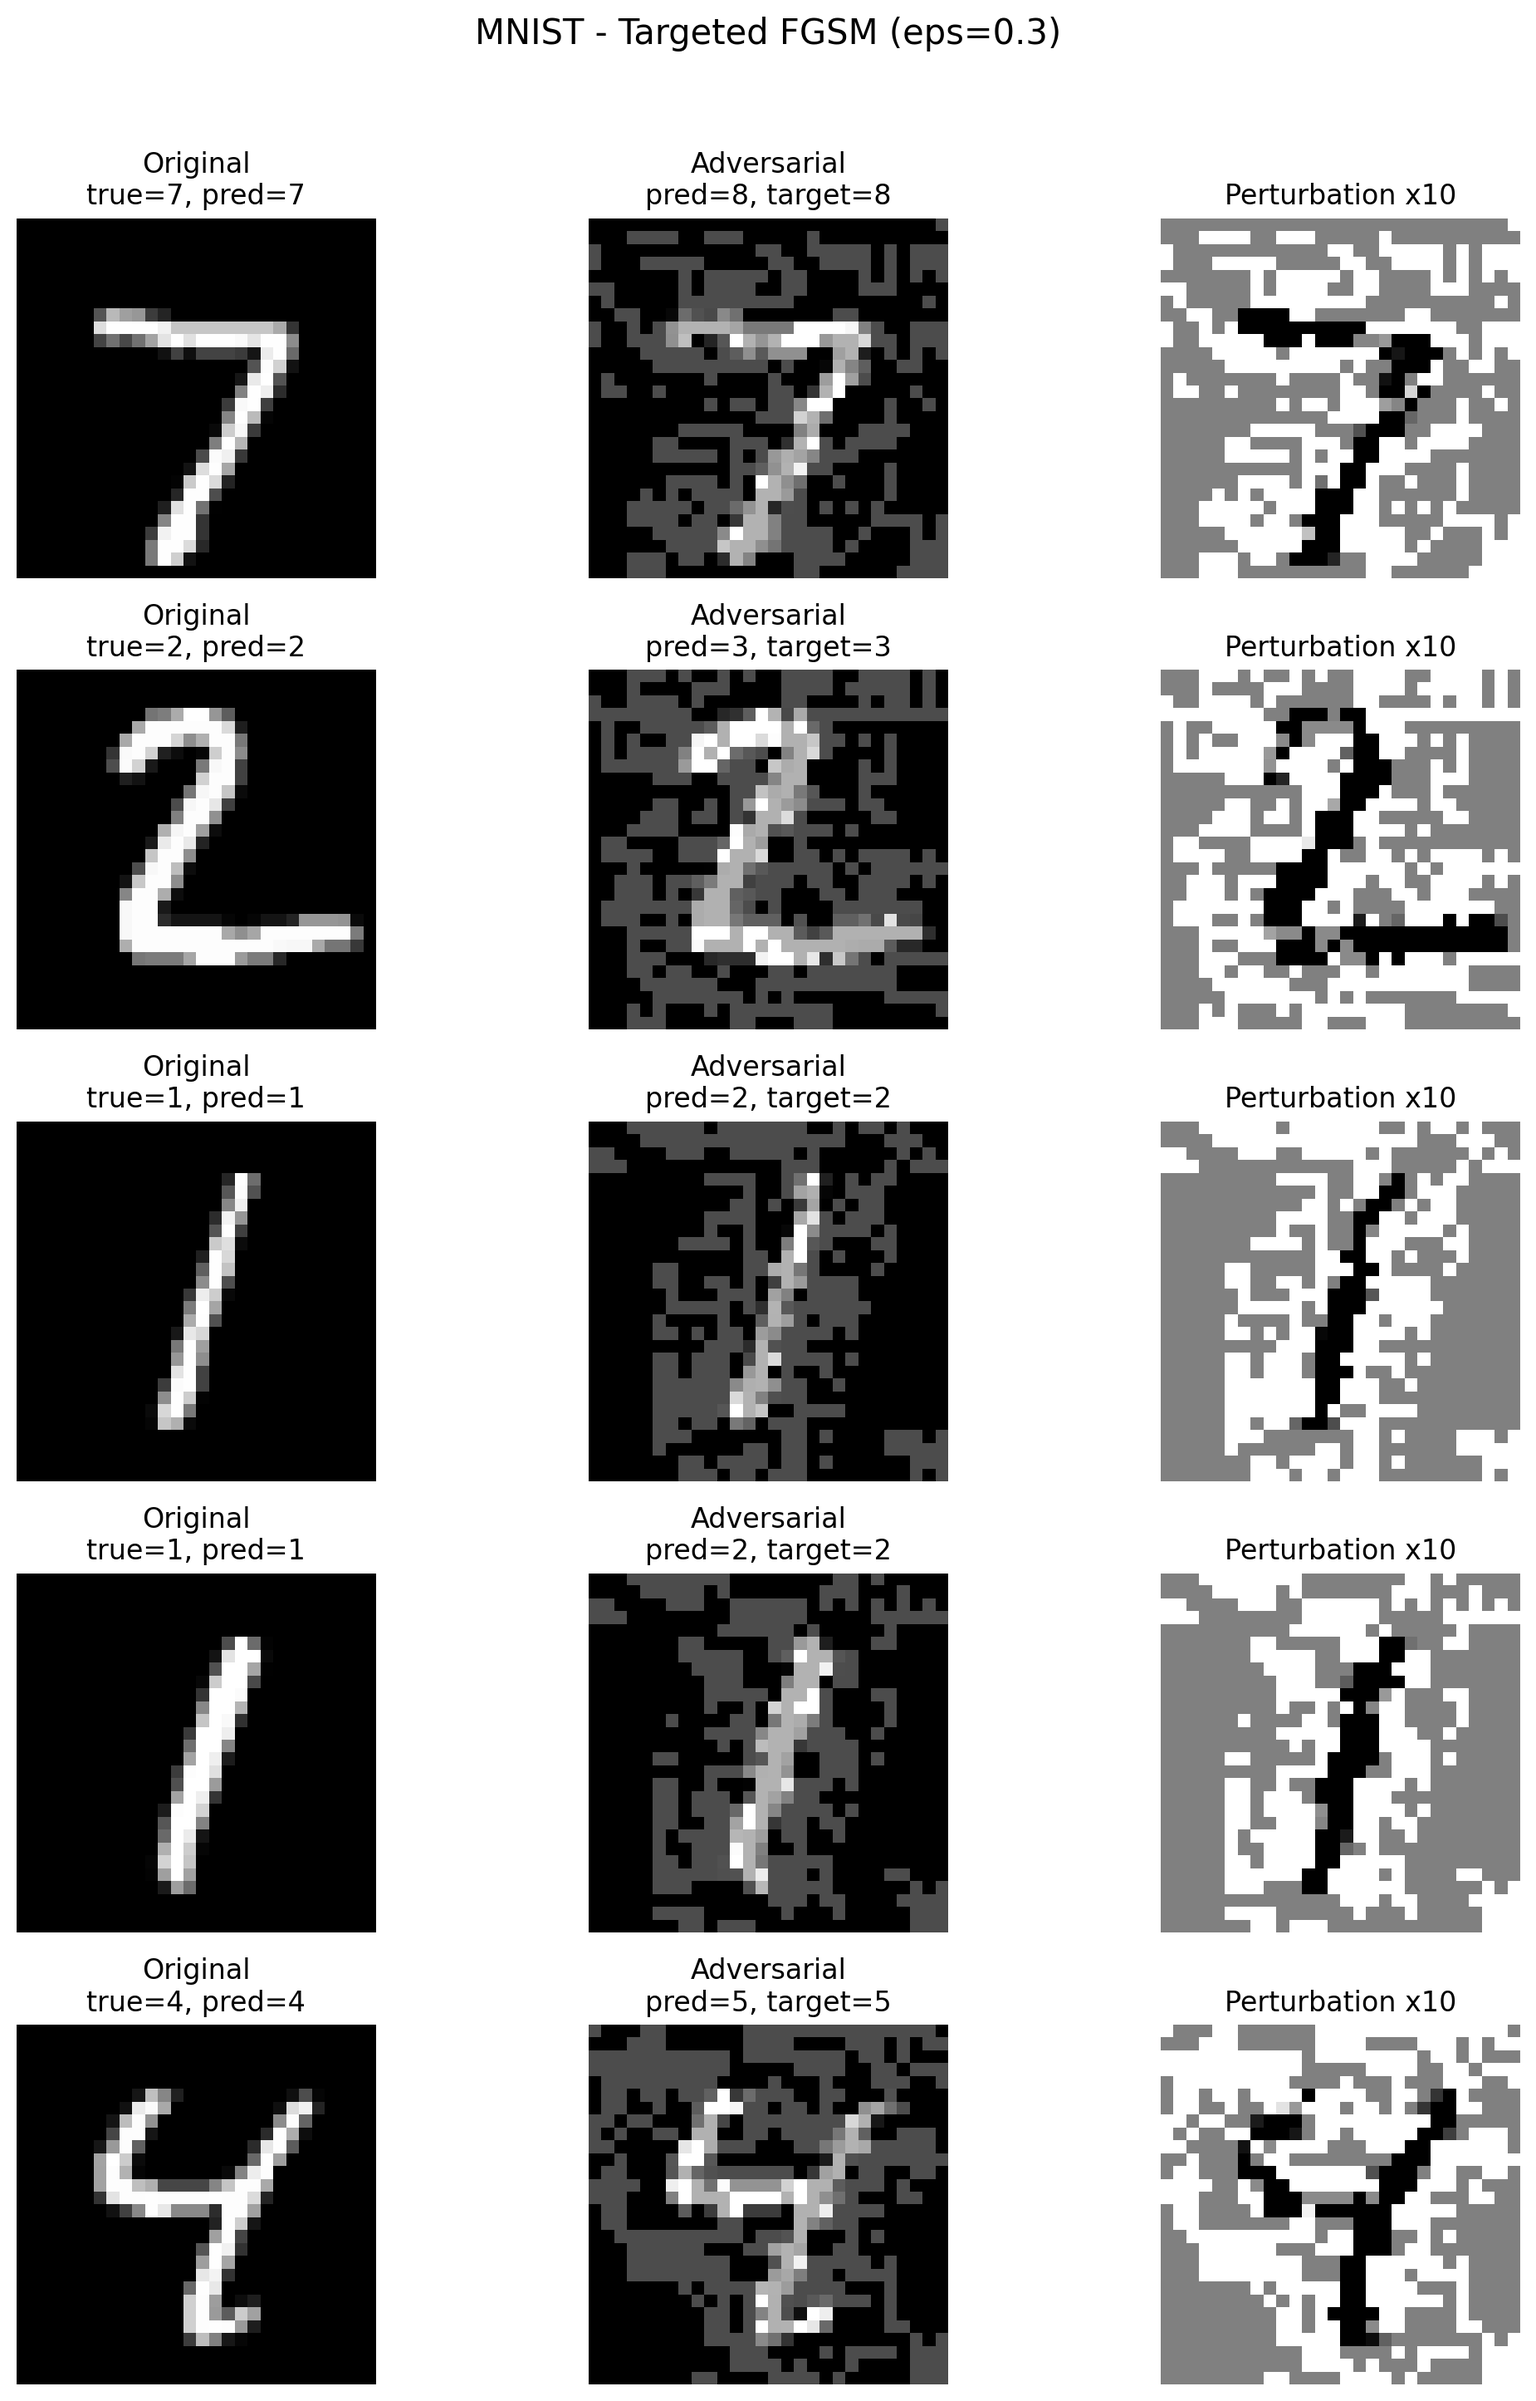
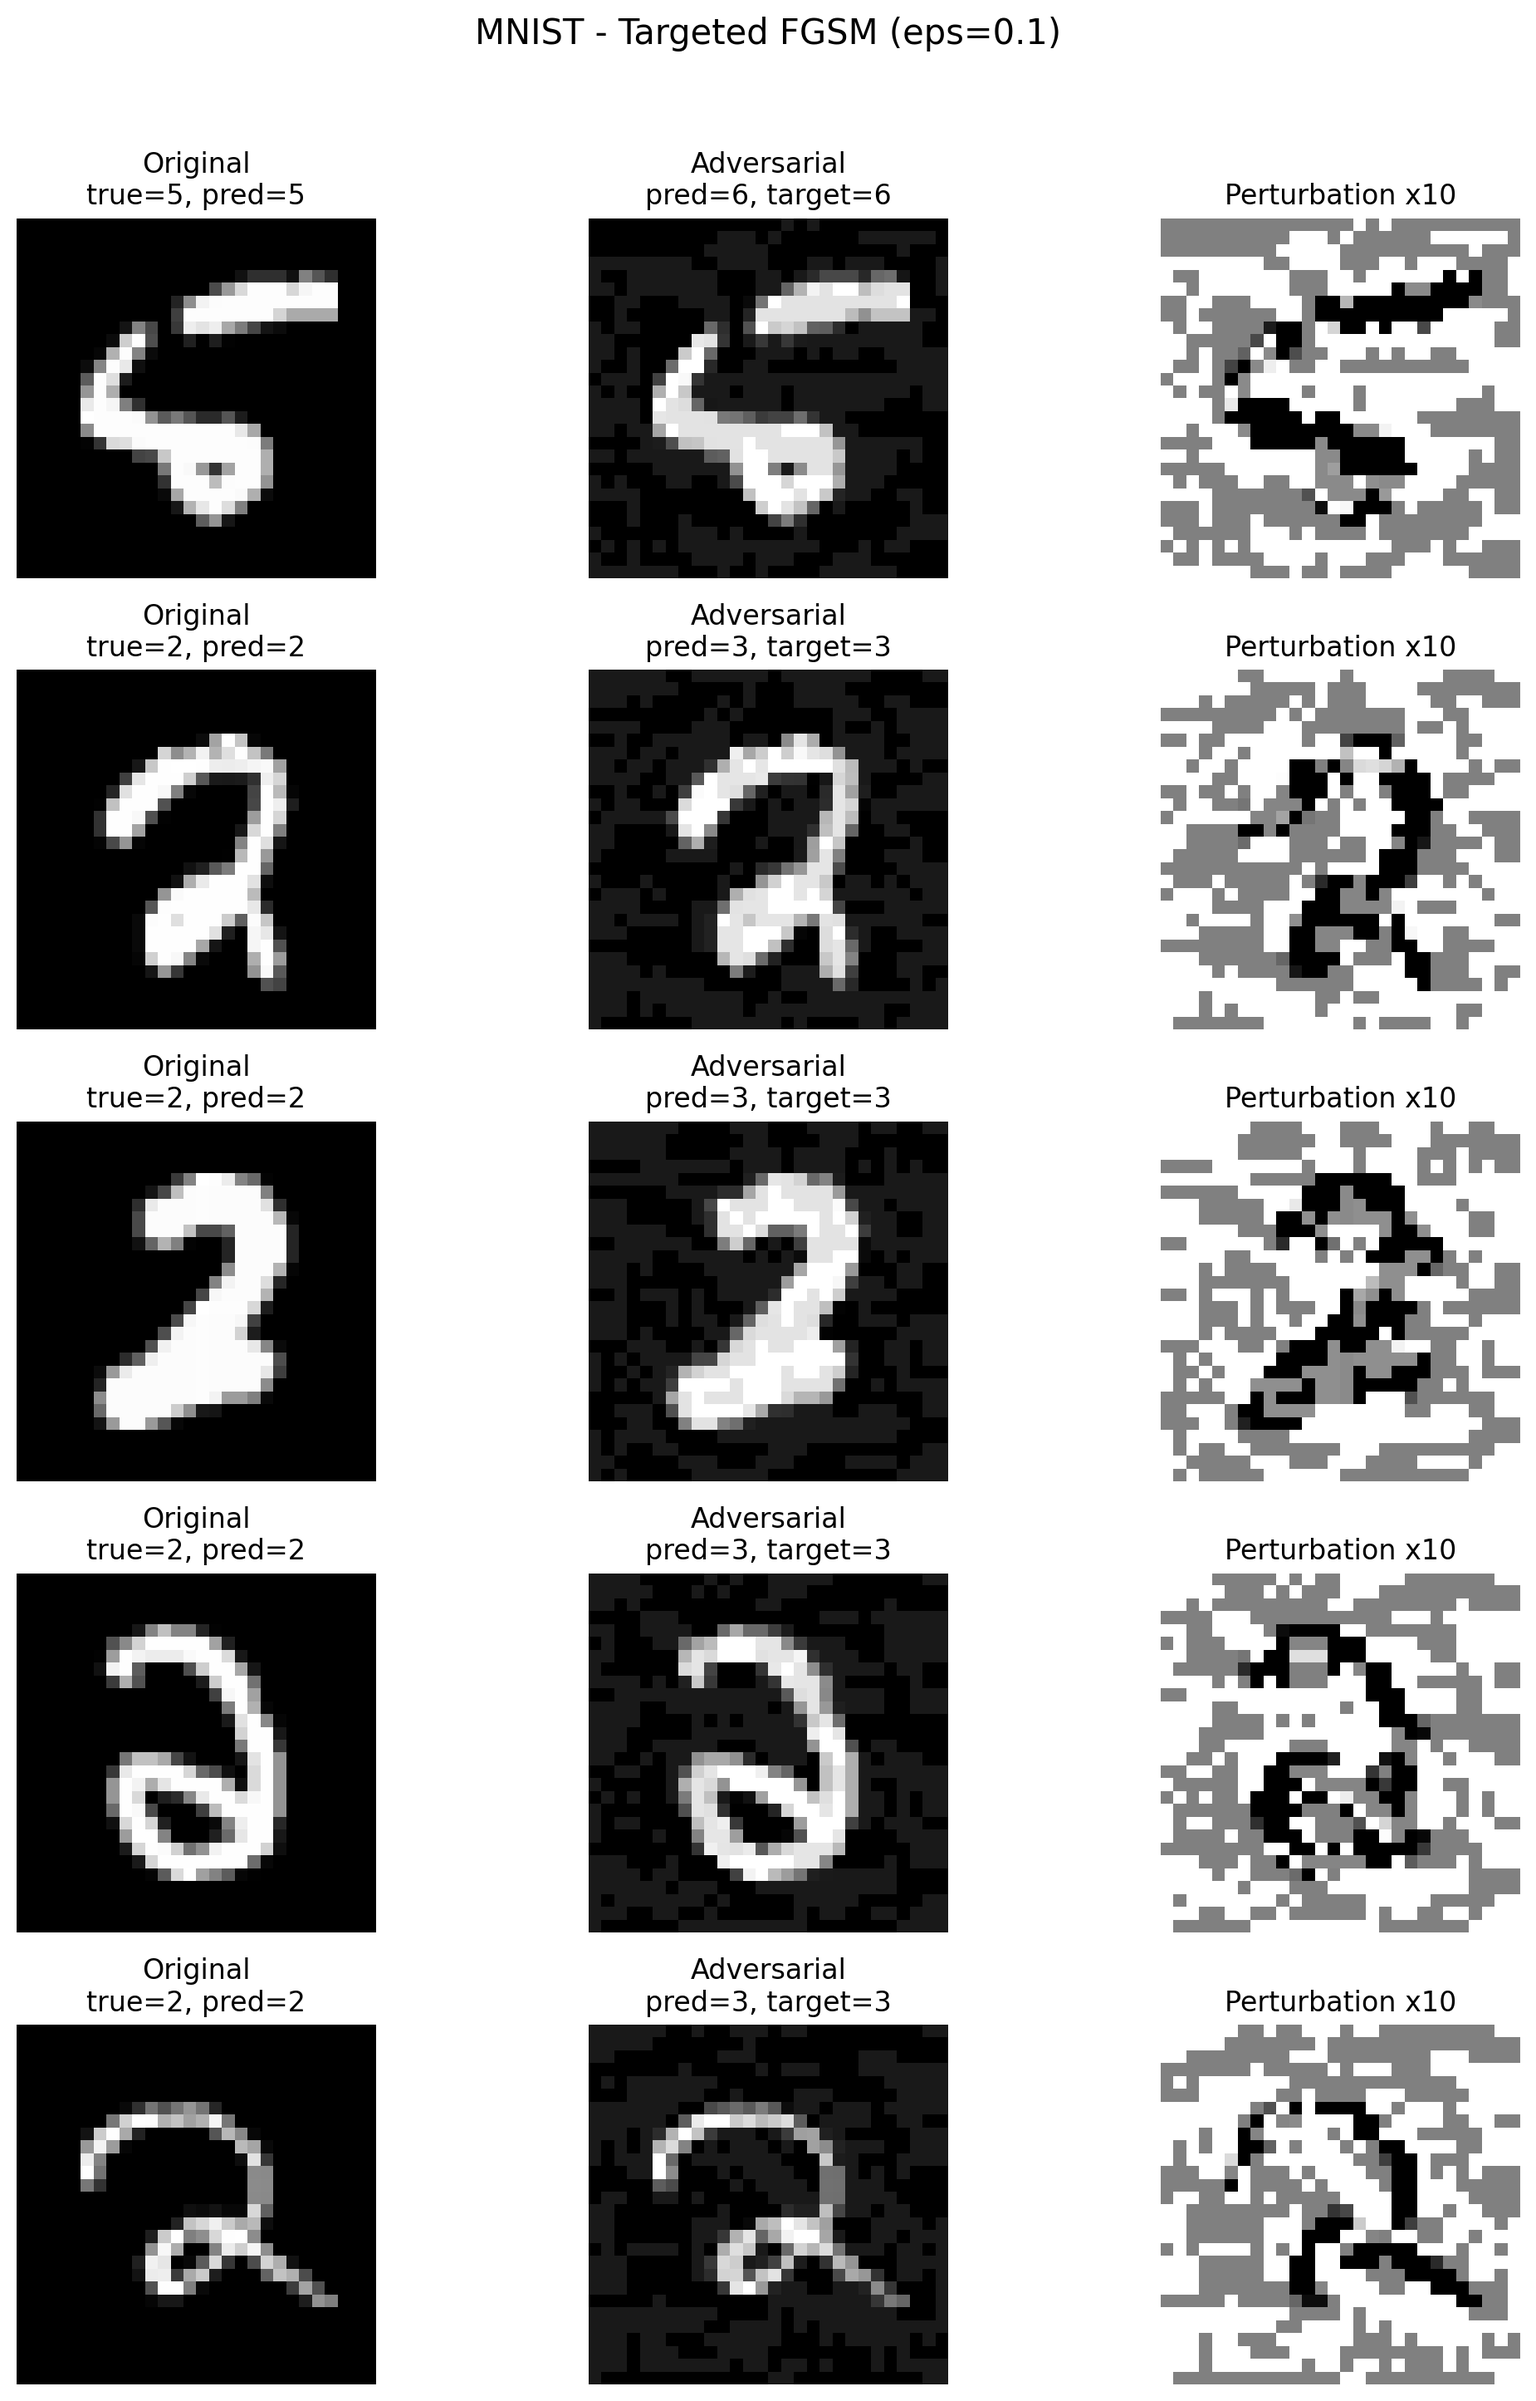
create eps table and requirment

diff --git a/eps_table.py b/eps_table.py
@@ -1,0 +1,182 @@
+import csv
+import os
+
+import cifar10
+import fgsm
+import mnist
+import pgd
+
+
+EPS_VALUES = [0.01, 0.05, 0.1, 0.2, 0.3, 0.5]
+NUM_SAMPLES = 1000
+RESULTS_DIR = os.path.dirname(os.path.abspath(__file__))
+
+ATTACK_CONFIGS = [
+    {"name": "Targeted FGSM", "method": "FGSM", "targeted": True},
+    {"name": "Untargeted FGSM", "method": "FGSM", "targeted": False},
+    {"name": "Targeted PGD", "method": "PGD", "targeted": True},
+    {"name": "Untargeted PGD", "method": "PGD", "targeted": False},
+]
+
+DATASET_CONFIGS = {
+    "MNIST": {
+        "runner": mnist.run,
+        "pgd_k": 40,
+        "pgd_eps_step": 0.01,
+    },
+    "CIFAR-10": {
+        "runner": cifar10.run,
+        "pgd_k": 10,
+        "pgd_eps_step": 0.01,
+    },
+}
+
+
+def evaluate_attack_success(model, test_loader, device, attack_config, dataset_config, eps):
+    if attack_config["method"] == "FGSM":
+        return fgsm.evaluate_fgsm(
+            model,
+            test_loader,
+            device,
+            eps=eps,
+            targeted=attack_config["targeted"],
+            num_samples=NUM_SAMPLES,
+        )
+
+    return pgd.evaluate_pgd(
+        model,
+        test_loader,
+        device,
+        k=dataset_config["pgd_k"],
+        eps=eps,
+        eps_step=dataset_config["pgd_eps_step"],
+        targeted=attack_config["targeted"],
+        num_samples=NUM_SAMPLES,
+    )
+
+
+def build_dataset_table(model, test_loader, device, dataset_name, dataset_config):
+    table = {}
+
+    for attack_config in ATTACK_CONFIGS:
+        attack_name = attack_config["name"]
+        table[attack_name] = {}
+
+        for eps in EPS_VALUES:
+            print(f"{dataset_name} | {attack_name} | eps={eps}")
+            success_rate = evaluate_attack_success(
+                model=model,
+                test_loader=test_loader,
+                device=device,
+                attack_config=attack_config,
+                dataset_config=dataset_config,
+                eps=eps,
+            )
+            table[attack_name][eps] = success_rate
+
+    return table
+
+
+def save_dataset_csv(dataset_name, table):
+    os.makedirs(RESULTS_DIR, exist_ok=True)
+    file_name = f"{dataset_name.lower().replace('-', '').replace(' ', '_')}_eps_attack_success.csv"
+    output_path = os.path.join(RESULTS_DIR, file_name)
+
+    with open(output_path, "w", newline="", encoding="utf-8") as csv_file:
+        writer = csv.writer(csv_file)
+        writer.writerow(["Attack"] + [str(eps) for eps in EPS_VALUES])
+
+        for attack_name in table:
+            writer.writerow(
+                [attack_name] + [f"{table[attack_name][eps]:.2f}" for eps in EPS_VALUES]
+            )
+
+    return output_path
+
+
+def build_markdown_table(dataset_name, table, dataset_config):
+    lines = []
+    lines.append(f"## {dataset_name}")
+    lines.append("")
+    lines.append(
+        f"PGD setting: k={dataset_config['pgd_k']}, eps_step={dataset_config['pgd_eps_step']}, "
+        f"evaluated on {NUM_SAMPLES} samples"
+    )
+    lines.append("")
+
+    header = "| Attack | " + " | ".join(str(eps) for eps in EPS_VALUES) + " |"
+    separator = "|---|" + "|".join(["---:"] * len(EPS_VALUES)) + "|"
+    lines.append(header)
+    lines.append(separator)
+
+    for attack_name in table:
+        values = " | ".join(f"{table[attack_name][eps]:.2f}" for eps in EPS_VALUES)
+        lines.append(f"| {attack_name} | {values} |")
+
+    lines.append("")
+    return lines
+
+
+def save_markdown_summary(all_tables):
+    os.makedirs(RESULTS_DIR, exist_ok=True)
+    output_path = os.path.join(RESULTS_DIR, "eps_attack_success_summary.md")
+
+    lines = ["# Attack Success Rate by Epsilon", ""]
+
+    for dataset_name, dataset_info in all_tables.items():
+        lines.extend(
+            build_markdown_table(
+                dataset_name=dataset_name,
+                table=dataset_info["table"],
+                dataset_config=dataset_info["config"],
+            )
+        )
+
+    with open(output_path, "w", encoding="utf-8") as markdown_file:
+        markdown_file.write("\n".join(lines))
+
+    return output_path
+
+
+def print_console_table(dataset_name, table):
+    print(f"\n{dataset_name} Attack Success Rate Table (%)")
+    header = ["Attack"] + [str(eps) for eps in EPS_VALUES]
+    print(" | ".join(header))
+    print("-" * 90)
+
+    for attack_name in table:
+        row = [attack_name] + [f"{table[attack_name][eps]:.2f}" for eps in EPS_VALUES]
+        print(" | ".join(row))
+
+
+def main():
+    os.makedirs(RESULTS_DIR, exist_ok=True)
+    all_tables = {}
+
+    for dataset_name, dataset_config in DATASET_CONFIGS.items():
+        print(f"\nLoading {dataset_name} model and test loader")
+        model, test_loader, device = dataset_config["runner"]()
+
+        table = build_dataset_table(
+            model=model,
+            test_loader=test_loader,
+            device=device,
+            dataset_name=dataset_name,
+            dataset_config=dataset_config,
+        )
+
+        csv_path = save_dataset_csv(dataset_name, table)
+        print_console_table(dataset_name, table)
+        print(f"Saved CSV to {csv_path}")
+
+        all_tables[dataset_name] = {
+            "table": table,
+            "config": dataset_config,
+        }
+
+    markdown_path = save_markdown_summary(all_tables)
+    print(f"Saved Markdown summary to {markdown_path}")
+
+
+if __name__ == "__main__":
+    main()

diff --git a/test.py b/test.py
@@ -26,41 +26,41 @@ def main():
     cifar10_model, cifar10_test_loader, device = cifar10.run()
 
     mnist_attack_configs = [
-        {"attack_method": "FGSM", "targeted": True, "eps": 0.3},
-        {"attack_method": "FGSM", "targeted": False, "eps": 0.3},
-        {"attack_method": "PGD", "targeted": True, "eps": 0.3, "k": 40, "eps_step": 0.01},
-        {"attack_method": "PGD", "targeted": False, "eps": 0.3, "k": 40, "eps_step": 0.01},
+        {"attack_method": "FGSM", "targeted": True, "eps": 0.1},
+        {"attack_method": "FGSM", "targeted": False, "eps": 0.1},
+        {"attack_method": "PGD", "targeted": True, "eps": 0.1, "k": 40, "eps_step": 0.01},
+        {"attack_method": "PGD", "targeted": False, "eps": 0.1, "k": 40, "eps_step": 0.01},
     ]
     cifar10_attack_configs = [
-        {"attack_method": "FGSM", "targeted": True, "eps": 0.05},
-        {"attack_method": "FGSM", "targeted": False, "eps": 0.05},
-        {"attack_method": "PGD", "targeted": True, "eps": 0.05, "k": 10, "eps_step": 0.01},
-        {"attack_method": "PGD", "targeted": False, "eps": 0.05, "k": 10, "eps_step": 0.01},
+        {"attack_method": "FGSM", "targeted": True, "eps": 0.03},
+        {"attack_method": "FGSM", "targeted": False, "eps": 0.03},
+        {"attack_method": "PGD", "targeted": True, "eps": 0.03, "k": 10, "eps_step": 0.01},
+        {"attack_method": "PGD", "targeted": False, "eps": 0.03, "k": 10, "eps_step": 0.01},
     ]
 
     print("2. Targeted FGSM")
     print("MNIST Model")
-    fgsm.evaluate_fgsm(mnist_model, mnist_test_loader, device, eps=0.3, targeted=True)
+    fgsm.evaluate_fgsm(mnist_model, mnist_test_loader, device, eps=0.1, targeted=True)
     print("CIFAR-10 Model")
-    fgsm.evaluate_fgsm(cifar10_model, cifar10_test_loader, device, eps=0.05, targeted=True)
+    fgsm.evaluate_fgsm(cifar10_model, cifar10_test_loader, device, eps=0.03, targeted=True)
 
     print("3. Untargeted FGSM")
     print("MNIST Model")
-    fgsm.evaluate_fgsm(mnist_model, mnist_test_loader, device, eps=0.3, targeted=False)
+    fgsm.evaluate_fgsm(mnist_model, mnist_test_loader, device, eps=0.1, targeted=False)
     print("CIFAR-10 Model")
-    fgsm.evaluate_fgsm(cifar10_model, cifar10_test_loader, device, eps=0.05, targeted=False)
+    fgsm.evaluate_fgsm(cifar10_model, cifar10_test_loader, device, eps=0.03, targeted=False)
 
     print("4-1. Targeted PGD")
     print("MNIST Model")
-    pgd.evaluate_pgd(mnist_model, mnist_test_loader, device, k=40, eps=0.3, eps_step=0.01, targeted=True)
+    pgd.evaluate_pgd(mnist_model, mnist_test_loader, device, k=40, eps=0.1, eps_step=0.01, targeted=True)
     print("CIFAR-10 Model")
-    pgd.evaluate_pgd(cifar10_model, cifar10_test_loader, device, k=10, eps=0.05, eps_step=0.01, targeted=True)
+    pgd.evaluate_pgd(cifar10_model, cifar10_test_loader, device, k=10, eps=0.03, eps_step=0.01, targeted=True)
 
     print("4-2. Untargeted PGD")
     print("MNIST Model")
-    pgd.evaluate_pgd(mnist_model, mnist_test_loader, device, k=40, eps=0.3, eps_step=0.01, targeted=False)
+    pgd.evaluate_pgd(mnist_model, mnist_test_loader, device, k=40, eps=0.1, eps_step=0.01, targeted=False)
     print("CIFAR-10 Model")
-    pgd.evaluate_pgd(cifar10_model, cifar10_test_loader, device, k=10, eps=0.05, eps_step=0.01, targeted=False)
+    pgd.evaluate_pgd(cifar10_model, cifar10_test_loader, device, k=10, eps=0.03, eps_step=0.01, targeted=False)
 
     save_dataset_visualizations(
         mnist_model,
